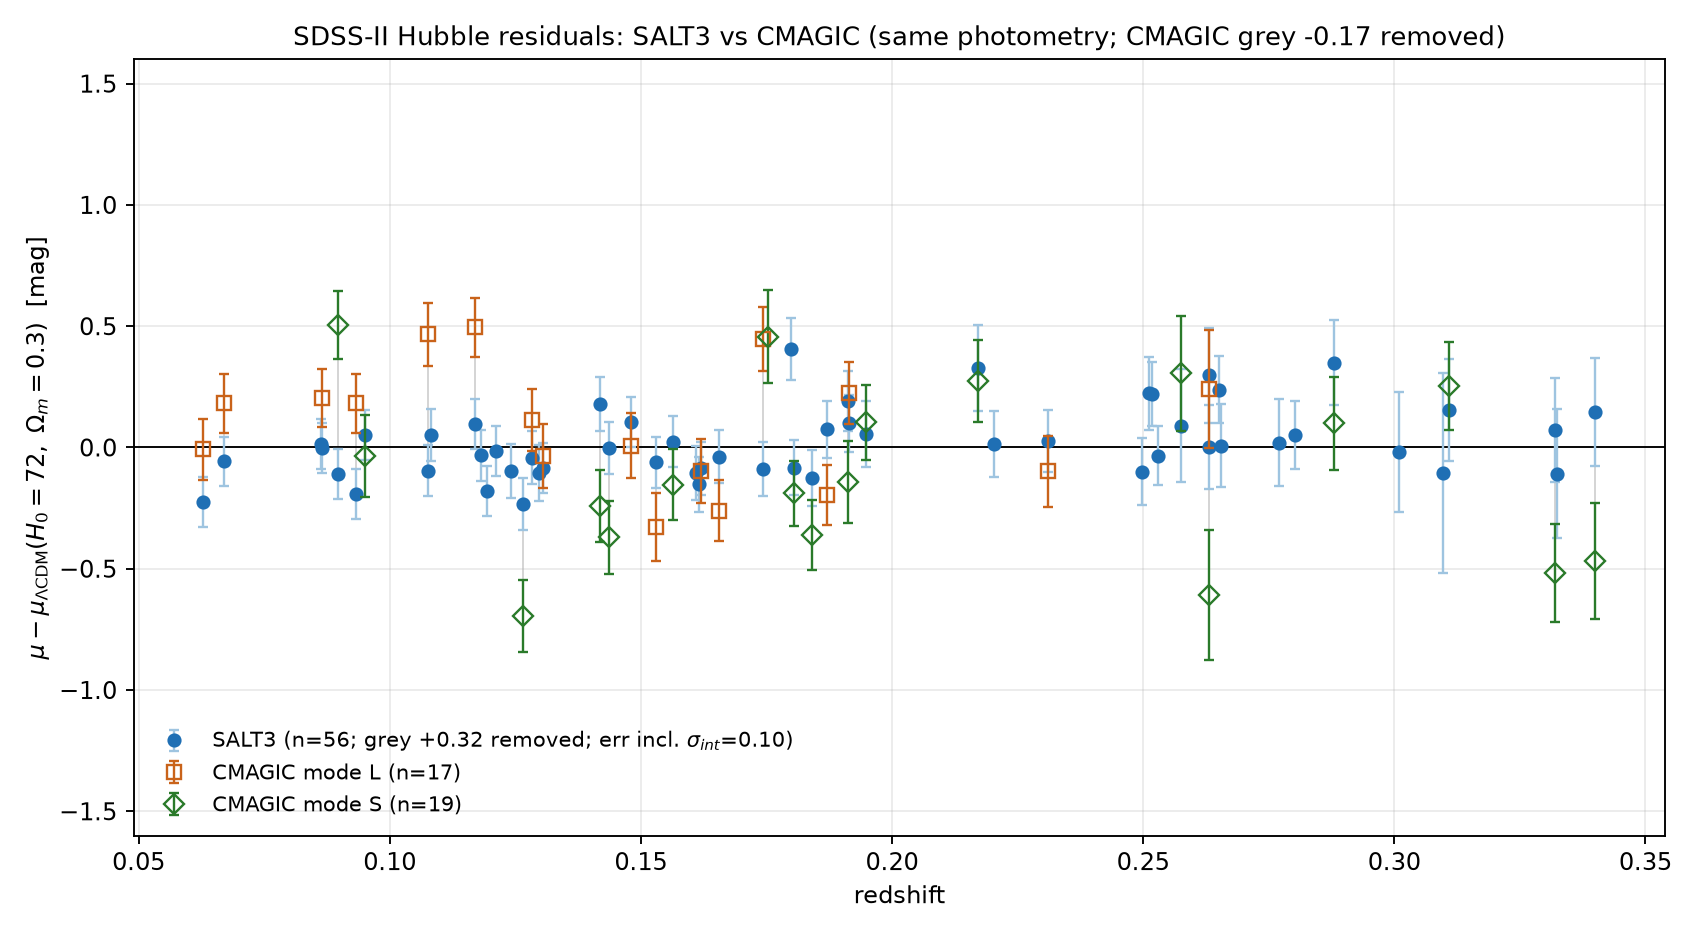
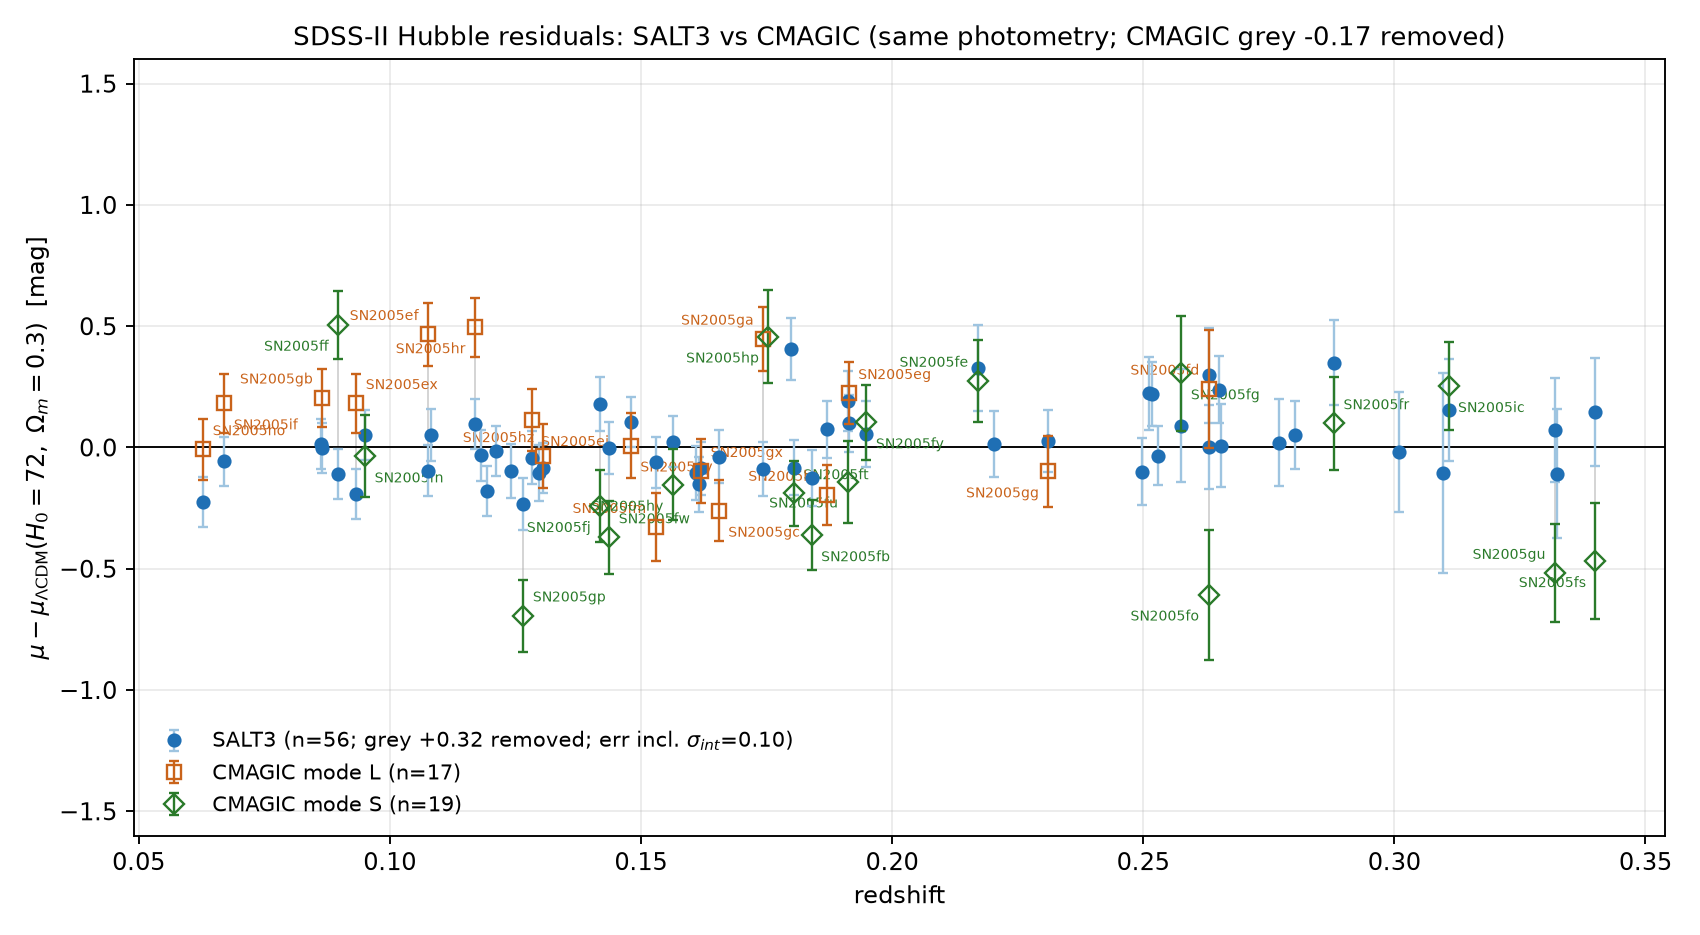
Hubble-residual figure: CMAGIC points labeled with IAU names (Sako+18 master map)

diff --git a/examples/make_hubble_residual_fig.py b/examples/make_hubble_residual_fig.py
@@ -11,6 +11,9 @@ import matplotlib.pyplot as plt
 
 HERE = os.path.dirname(os.path.abspath(__file__))
 rows = list(csv.DictReader(open(os.path.join(HERE, "sdss_salt3_comparison.csv"))))
+with open(os.path.join(HERE, "data", "sdss", "snid_iau_names.csv")) as fh:
+    NAMES = {r["snid"]: r["iau_name"] for r in csv.DictReader(
+        ln for ln in fh if not ln.startswith("#"))}
 S, C = [], []
 for r in rows:
     try:
@@ -20,15 +23,23 @@ for r in rows:
     if r["mu"] and not r["salt3_cut"]:
         S.append((z, float(r["mu"]) - mul, float(r["emu"])))
     if r["cm_mu"] and not r["cm_failed"]:
-        C.append((z, float(r["cm_mu"]) - mul, float(r["cm_emu"]), r["cm_mode"]))
+        C.append((z, float(r["cm_mu"]) - mul, float(r["cm_emu"]), r["cm_mode"], r["snid"]))
 S = np.array(S, dtype=float)
-Carr = np.array([(a, b, c) for a, b, c, _ in C], dtype=float)
-modes = [m for *_, m in C]
+Carr = np.array([(a, b, c) for a, b, c, _, _ in C], dtype=float)
+modes = [m for *_, m, _ in C]
+snids = [s for *_, s in C]
 gS = np.median(S[:, 1]); gC = np.median(Carr[:, 1])
 eS = np.sqrt(S[:, 2] ** 2 + 0.10 ** 2)
 
 fig, ax = plt.subplots(figsize=(10, 5.5))
 zc = {round(z, 6): dm - gC for (z, dm, e), m in zip(Carr, modes)}
+order = np.argsort(Carr[:, 0])
+for k, i in enumerate(order):
+    (z, dm, e), m, s = Carr[i], modes[i], snids[i]
+    dx, dy = [(4, 6), (4, -11), (-4, 6), (-4, -11)][k % 4]
+    ha = "left" if dx > 0 else "right"
+    ax.annotate(NAMES.get(s, s), (z, dm - gC), textcoords="offset points", xytext=(dx, dy),
+                fontsize=6, ha=ha, color={"L": "#c9631a", "S": "#2a7a2a"}.get(m, "grey"))
 for z, dm, e in S:
     if round(z, 6) in zc:
         ax.plot([z, z], [dm - gS, zc[round(z, 6)]], color="lightgrey", lw=0.8, zorder=1)
